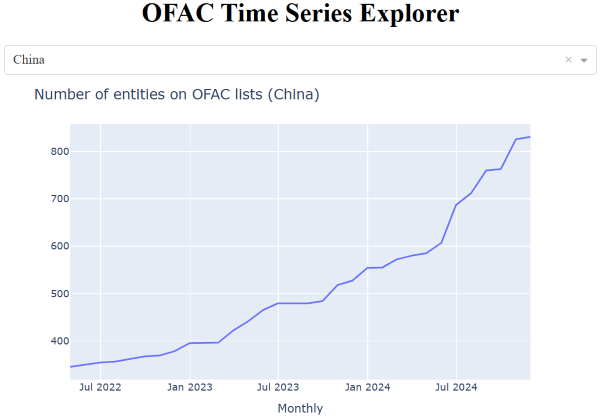
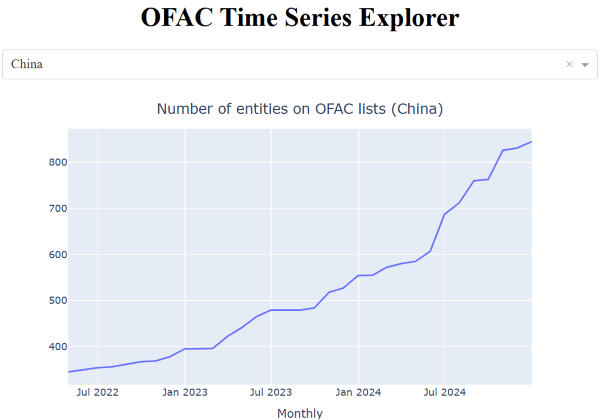
Centered app plot title

diff --git a/app.py b/app.py
@@ -20,7 +20,12 @@ def update_graph(selected_country):
     dff = df[df.Country==selected_country]
     fig = px.line(dff, x='Date', y='levels')
     fig.update_layout(
-        title=f'Number of entities on OFAC lists ({selected_country})',
+        title={
+            'text': f'Number of entities on OFAC lists ({selected_country})',
+            'x': 0.5,
+            'xanchor': 'center',
+            'yanchor': 'top' 
+        },
         xaxis_title='Monthly',
         yaxis_title=''
     )
